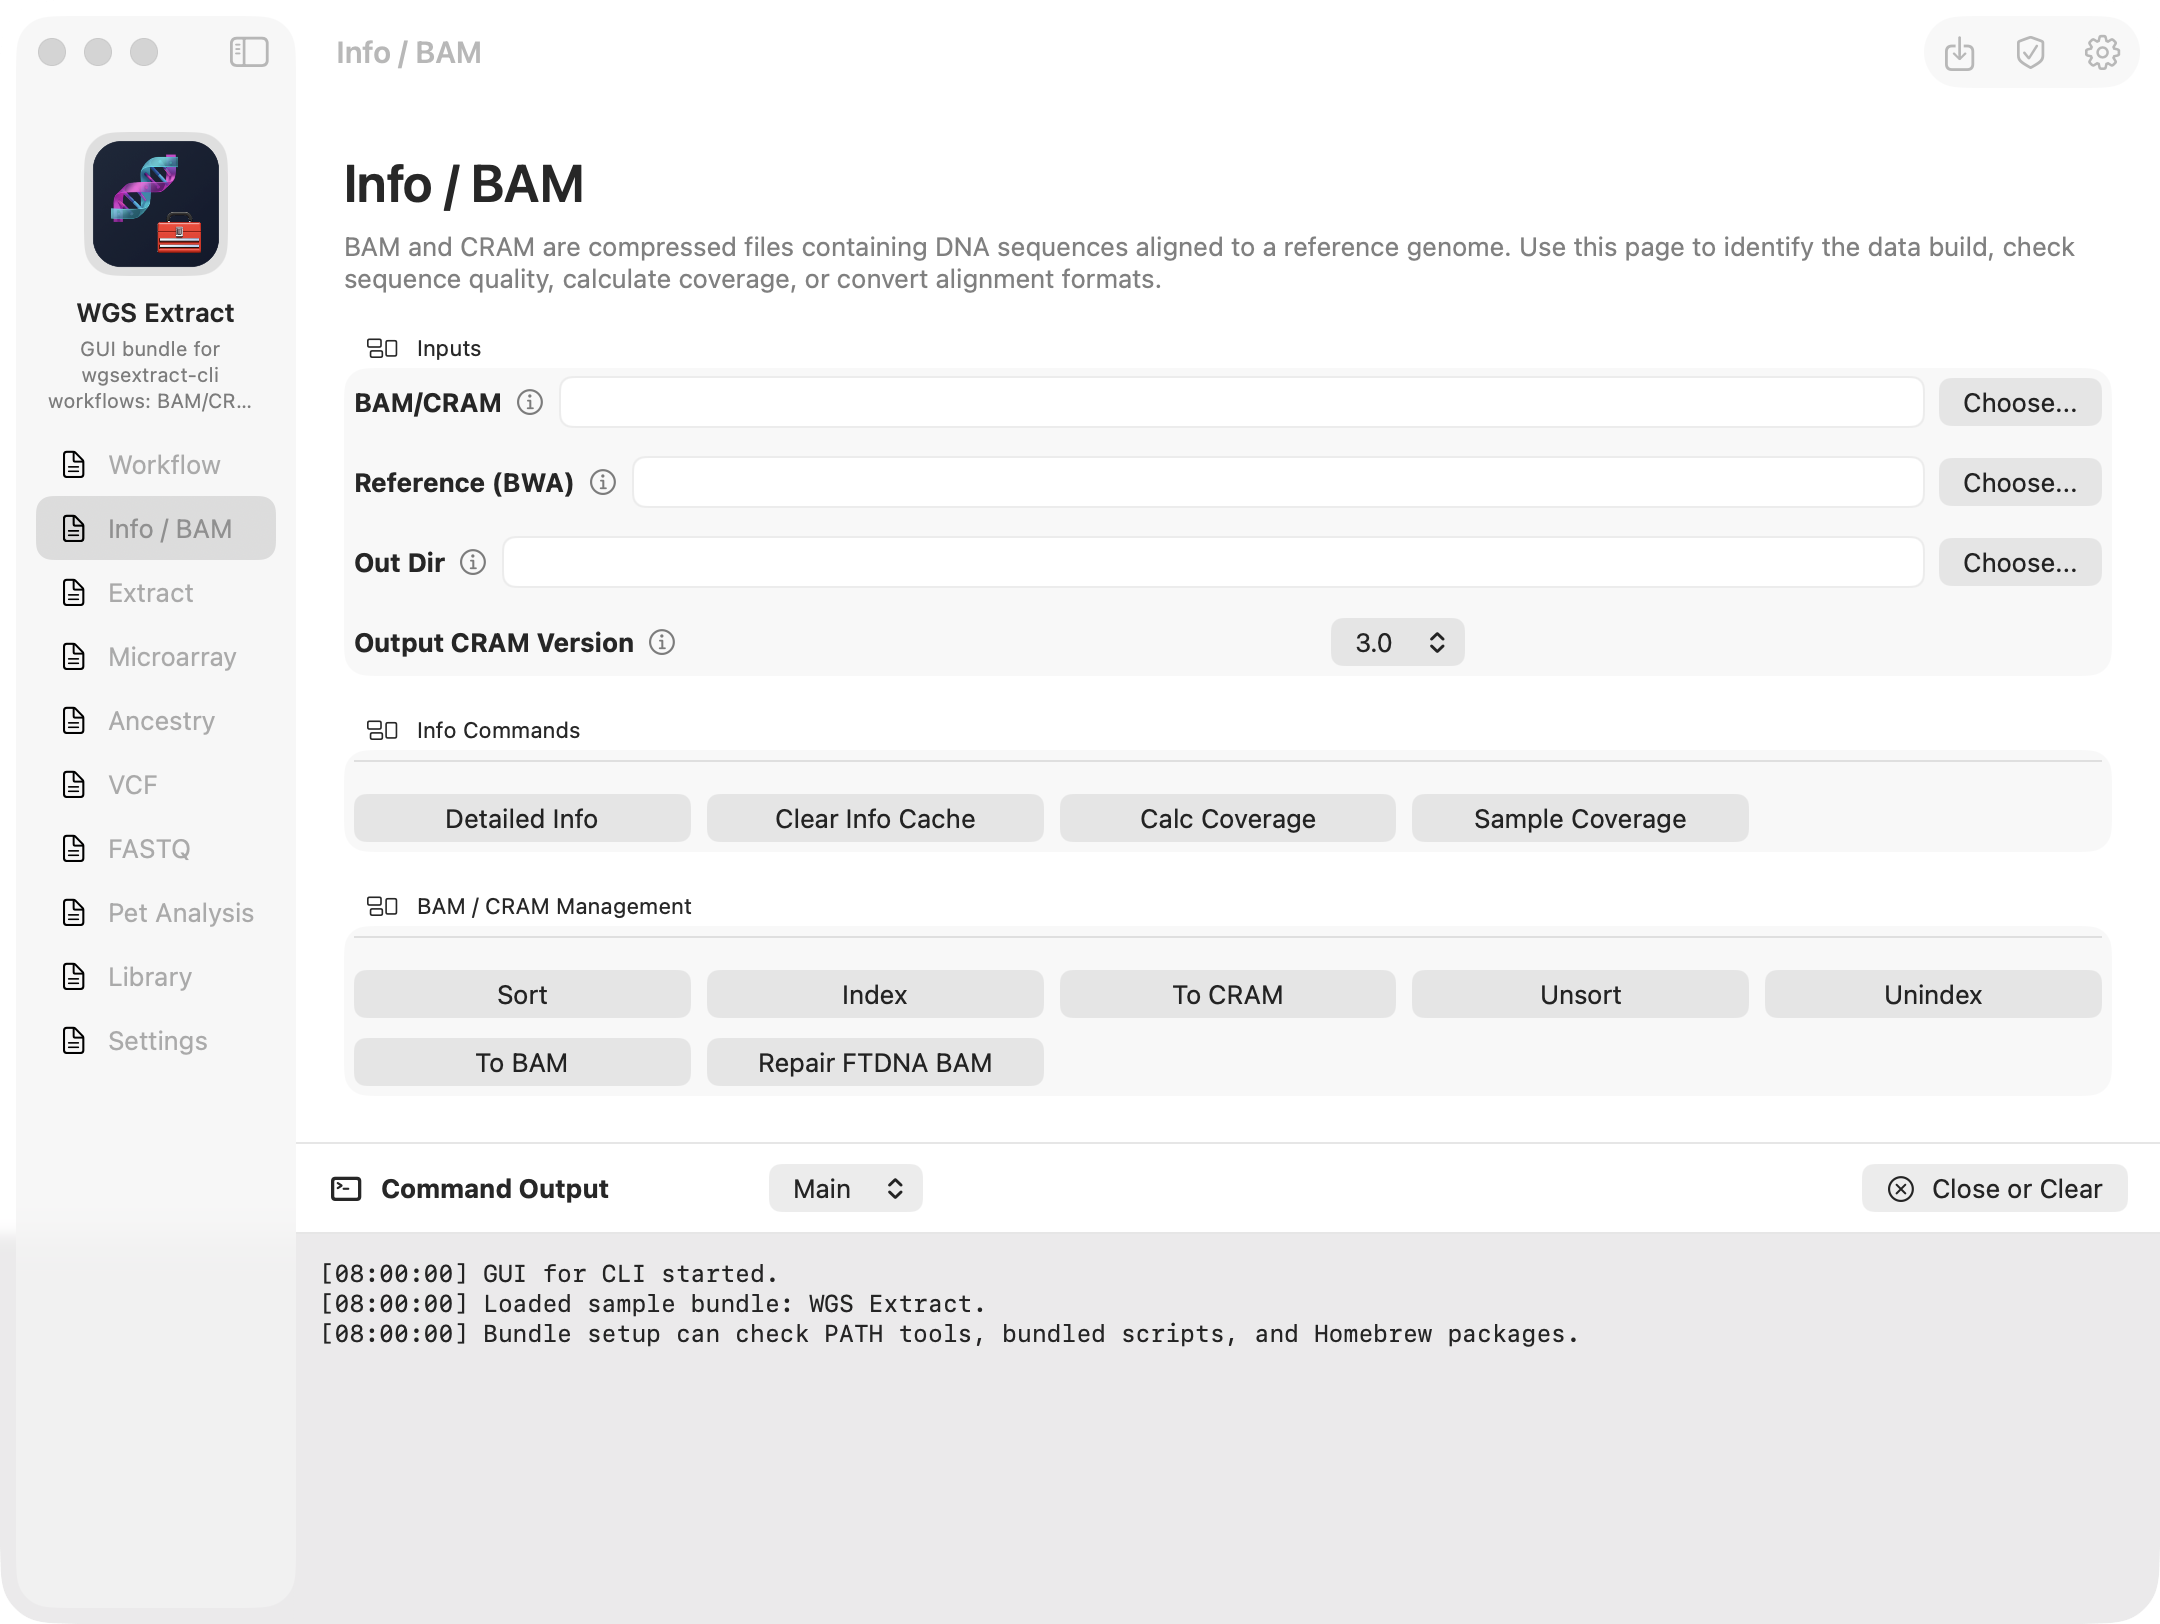
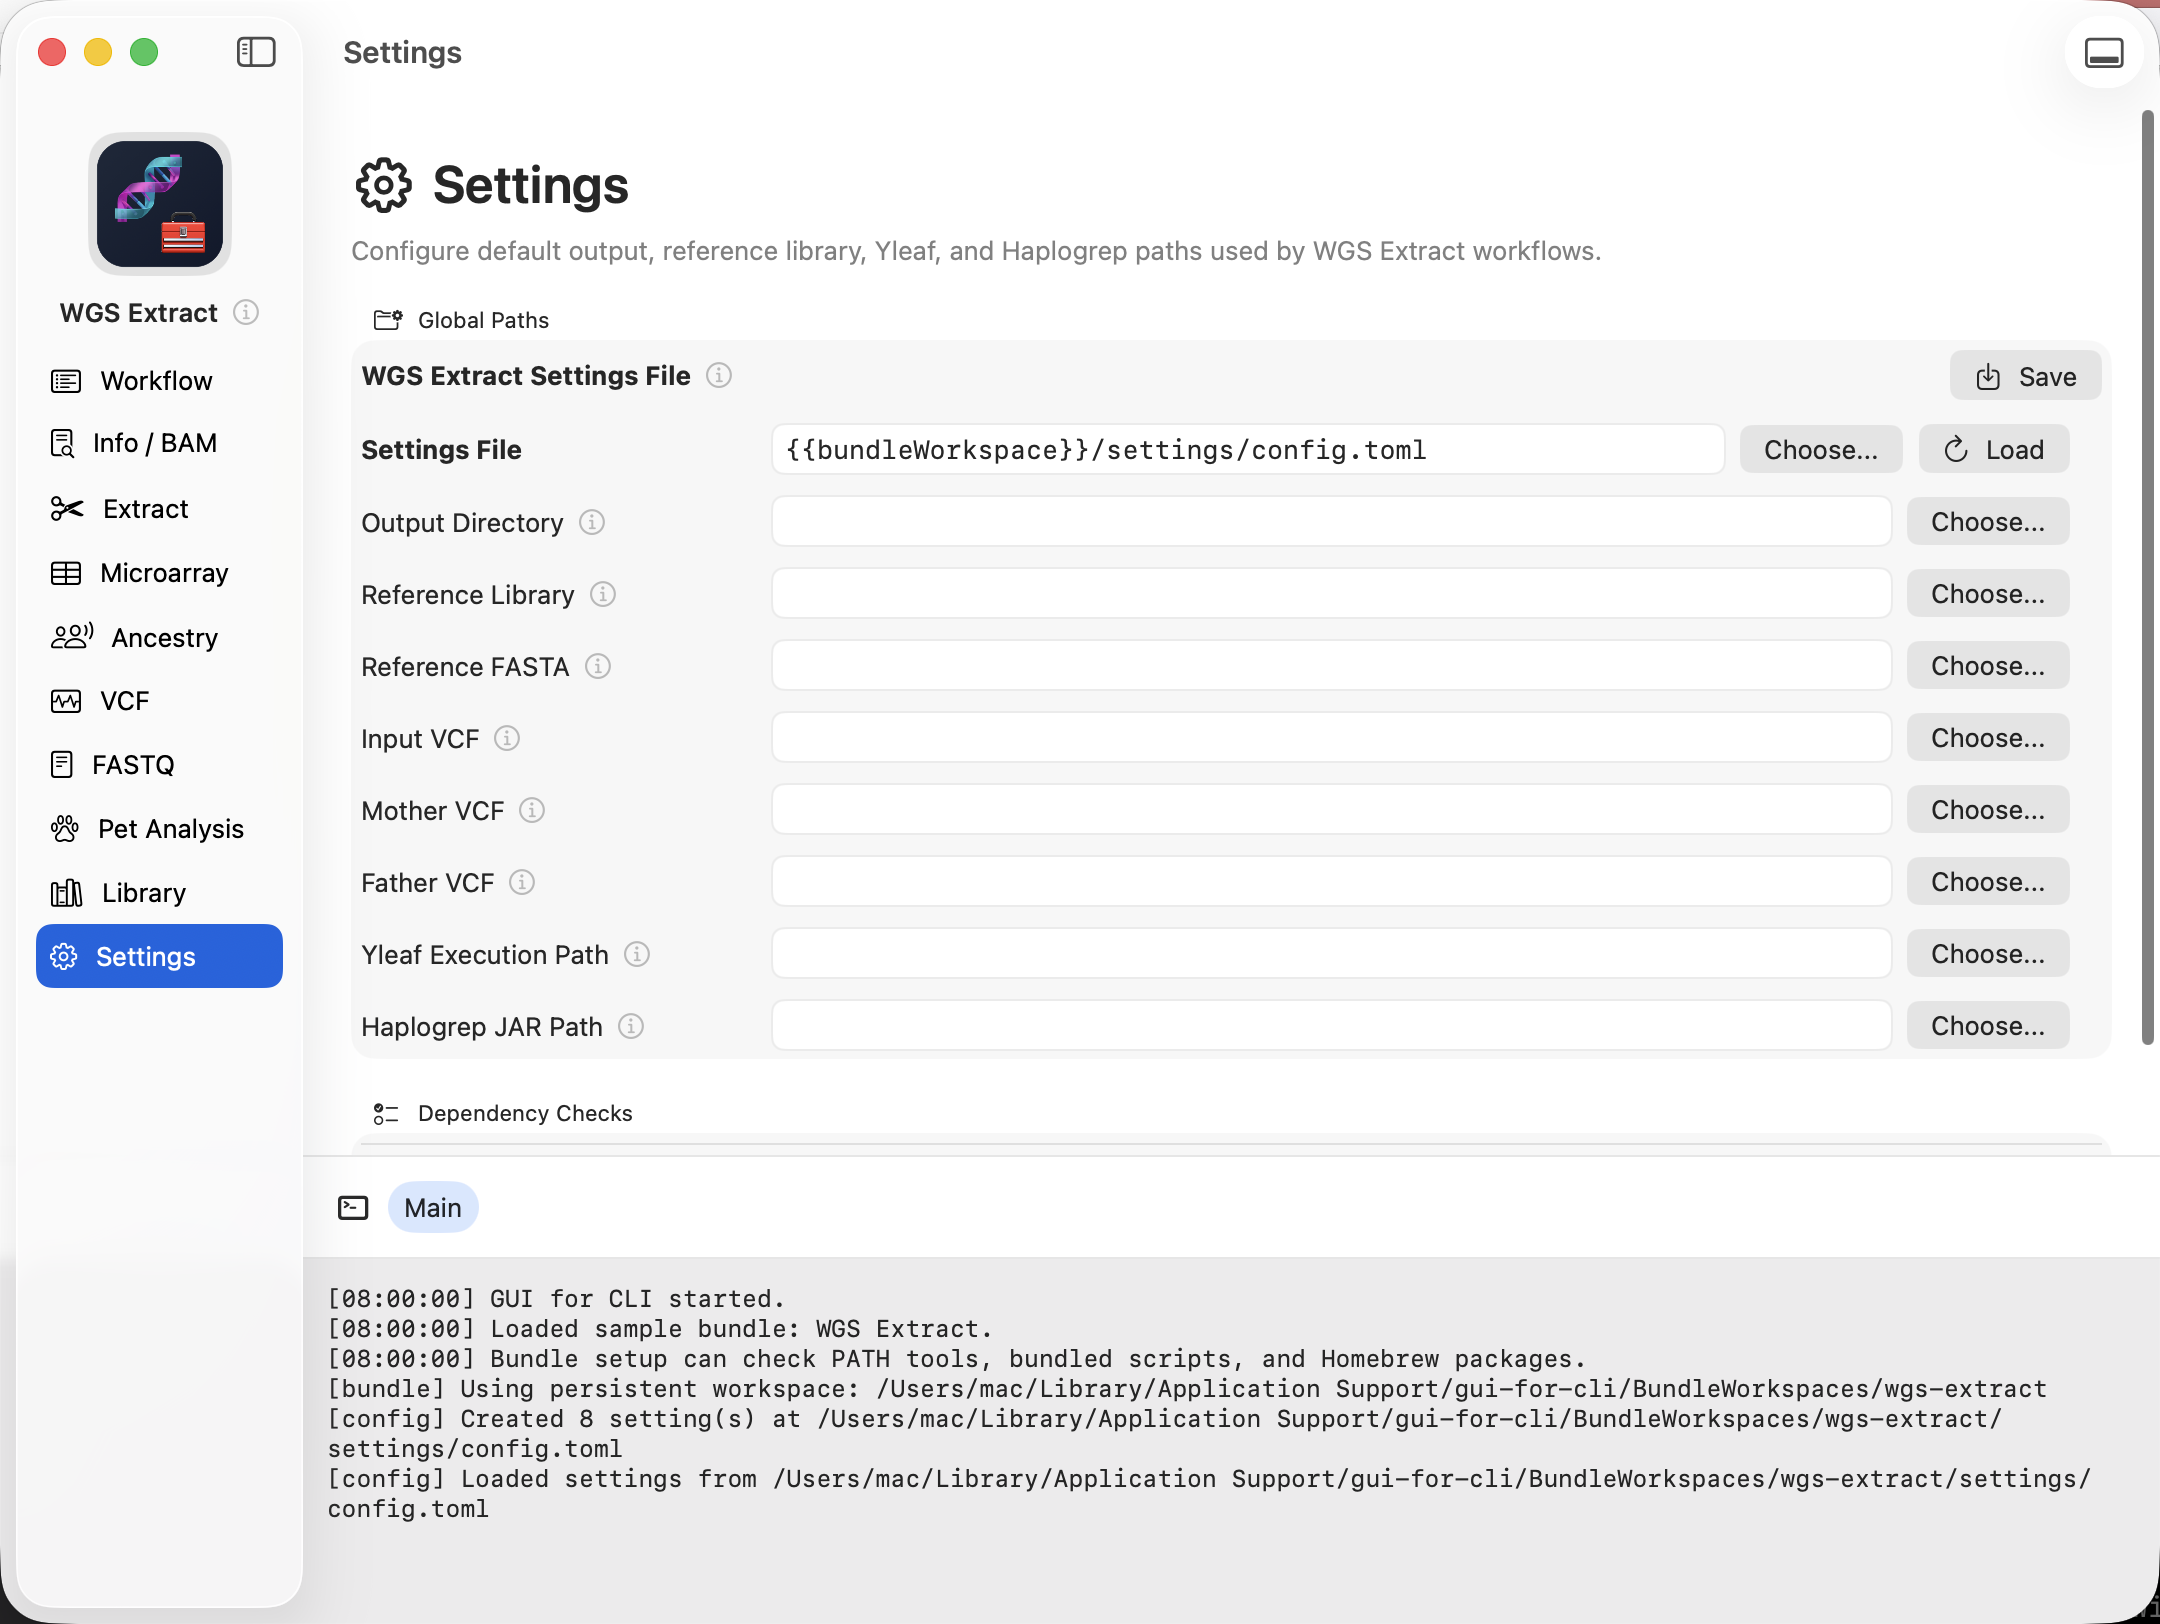
Store WGS settings in workspace
Move the WGS config editor default to the persistent bundle workspace and discard the legacy user-config path override during this migration.

Refresh the README screenshot to show the current Settings page and workspace-local config startup logs.

diff --git a/Apps/Shared/ContentView.swift b/Apps/Shared/ContentView.swift
@@ -346,11 +346,22 @@ struct ContentView: View {
   private static func initialConfigFilePaths(for manifest: CLIBundleManifest) -> [String: String] {
     manifest.configEditorControls.reduce(into: [:]) { paths, control in
       guard let configFile = control.configFile else { return }
-      paths[control.id] =
-        UserDefaults.standard.string(
-          forKey: configFilePathDefaultsKey(manifest: manifest, control: control))
-        ?? configFile.path
+      let defaultsKey = configFilePathDefaultsKey(manifest: manifest, control: control)
+      if let persistedPath = UserDefaults.standard.string(forKey: defaultsKey),
+        !shouldDiscardLegacyConfigPath(persistedPath, defaultPath: configFile.path)
+      {
+        paths[control.id] = persistedPath
+      } else {
+        UserDefaults.standard.removeObject(forKey: defaultsKey)
+        paths[control.id] = configFile.path
+      }
     }
+  }
+
+  private static func shouldDiscardLegacyConfigPath(_ path: String, defaultPath: String) -> Bool {
+    guard defaultPath.contains("{{bundleWorkspace}}") else { return false }
+    let legacyWGSPath = "/.config/wgsextract/config.toml"
+    return path == "{{home}}\(legacyWGSPath)" || path.hasSuffix(legacyWGSPath)
   }
 
   private static func bootstrapConfigFiles(

diff --git a/Tests/GUIForCLICoreTests/BundleManifestLoaderTests.swift b/Tests/GUIForCLICoreTests/BundleManifestLoaderTests.swift
@@ -45,7 +45,7 @@ import Testing
   let settingsControl = try #require(
     manifest.pages.first { $0.id == "settings" }?.sections.first { $0.id == "settings-paths" }?
       .controls.first)
-  #expect(settingsControl.configFile?.path == "{{home}}/.config/wgsextract/config.toml")
+  #expect(settingsControl.configFile?.path == "{{bundleWorkspace}}/settings/config.toml")
   #expect(settingsControl.configFile?.bootstrap?.mode == .createIfMissing)
   #expect(
     settingsControl.configFile?.bootstrap?.script?.path